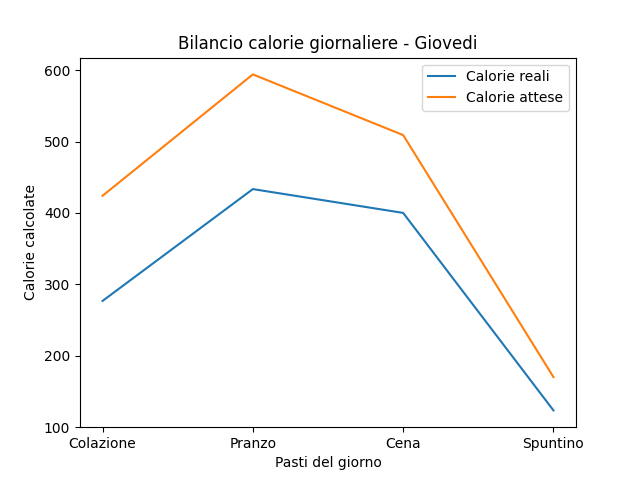
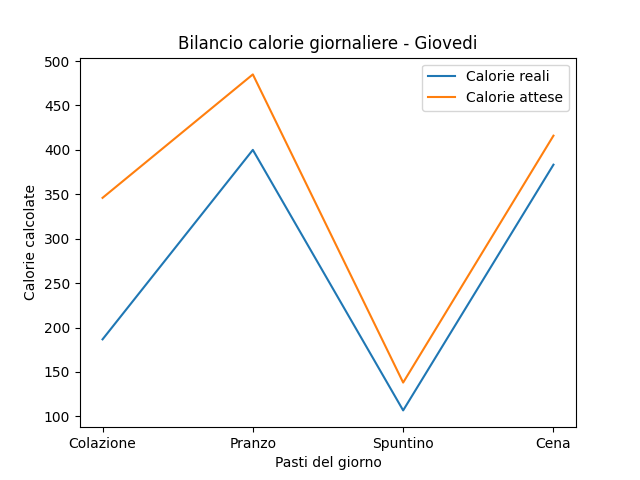
Add files via upload

diff --git a/progetto programmazione/templates/risultato.html b/progetto programmazione/templates/risultato.html
@@ -1,3 +1,4 @@
+<!DOCTYPE html>
 <html lang="en">
 <head>
     <meta charset="UTF-8">
@@ -12,19 +13,15 @@
     <script>
         function toggleProcedimento(id) {
             var procedimentoElement = document.getElementById(id);
-            if (procedimentoElement.style.display === "none") {
-                procedimentoElement.style.display = "block";
-            } else {
-                procedimentoElement.style.display = "none";
+            if (procedimentoElement) {
+                procedimentoElement.style.display = procedimentoElement.style.display === "none" ? "block" : "none";
             }
         }
 
         function toggleBilancio(id) {
             var graficoElement = document.getElementById(id);
-            if (graficoElement.style.display === "none") {
-                graficoElement.style.display = "block";
-            } else {
-                graficoElement.style.display = "none";
+            if (graficoElement) {
+                graficoElement.style.display = graficoElement.style.display === "none" ? "block" : "none";
             }
         }
     </script>
@@ -33,28 +30,33 @@
     <h1>Risultato Calcolo Calorico</h1>
     <p><strong>BMR:</strong> {{ bmr }} kcal</p>
     <p><strong>TDEE:</strong> {{ tdee }} kcal</p>
+    
     <h2>Ripartizione Calorica Giornaliera</h2>
     <ul>
         <li><strong>Colazione:</strong> {{ colazione }} kcal</li>
         <li><strong>Pranzo:</strong> {{ pranzo }} kcal</li>
-        <li><strong>Cena:</strong> {{ cena }} kcal</li>
         <li><strong>Spuntino:</strong> {{ spuntino }} kcal</li>
+        <li><strong>Cena:</strong> {{ cena }} kcal</li>
     </ul>
+    
     <h2>Ripartizione calorica giornaliera</h2>
     <div style="text-align: left;">
-    <img src="{{ url_for('static', filename='grafico_ripartizione.png') }}"
-    style="width: 35%; height: auto; display: inline-block; margin-right: 10px;">
-    <img src="{{ url_for('static', filename='grafico_ripartizione_barre.png') }}" 
-    style="width: 35%; height: auto; display: inline-block;">
-    
+        <img src="{{ url_for('static', filename='grafico_ripartizione.png') }}"
+             style="width: 35%; height: auto; display: inline-block; margin-right: 10px;" alt="Grafico Ripartizione">
+        <img src="{{ url_for('static', filename='grafico_ripartizione_barre.png') }}" 
+             style="width: 35%; height: auto; display: inline-block;" alt="Grafico Ripartizione Barre">
+    </div>
+
     <h2>Menu Settimanale</h2>
     {% for giorno, pasti in menu_settimanale.items() %}
         <h3>{{ giorno }}</h3>
         <button onclick="toggleBilancio('grafico-bilancio-{{ giorno }}')">BILANCIO</button>
         <div id="grafico-bilancio-{{ giorno }}" class="grafico-bilancio">
             <img src="{{ url_for('static', filename='grafico_' + giorno + '.png') }}" alt="Grafico Bilancio {{ giorno }}"
-            style="width: 20%; height: auto; display: inline-block; margin-right: 10px;">
+                 style="width: 20%; height: auto; display: inline-block; margin-right: 10px;">
         </div>
+
+        <!-- Colazione -->
         <h4>Colazione</h4>
         <ul>
             {% for ricetta in pasti['Colazione'] %}
@@ -67,7 +69,8 @@
                 </li>
             {% endfor %}
         </ul>
-        
+
+        <!-- Pranzo -->
         <h4>Pranzo</h4>
         <ul>
             {% for ricetta in pasti['Pranzo'] %}
@@ -80,6 +83,8 @@
                 </li>
             {% endfor %}
         </ul>
+
+        <!-- Spuntino -->
         <h4>Spuntino</h4>
         <ul>
             {% for ricetta in pasti['Spuntino'] %}
@@ -90,6 +95,10 @@
                         <p>{{ ricetta['Descrizione'] }}</p>
                     </div>
                 </li>
+            {% endfor %}
+        </ul>
+
+        <!-- Cena -->
         <h4>Cena</h4>
         <ul>
             {% for ricetta in pasti['Cena'] %}
@@ -102,12 +111,8 @@
                 </li>
             {% endfor %}
         </ul>
-        
-            {% endfor %}
-        </ul>
     {% endfor %}
-    
+
     <a href="/">Torna indietro</a>
 </body>
 </html>
-

diff --git a/progetto programmazione/app.py b/progetto programmazione/app.py
@@ -22,7 +22,7 @@ def calcola():
         tdee = calcola_tdee(bmr, livello_attività)
         colazione, pranzo, cena, spuntino = ripartizione_calorica(tdee)
 
-        # Creazione del grafico a torta
+        # Creazione del grafico a torta e barre
         crea_grafico_ripartizione(colazione, pranzo, cena, spuntino, 'static/grafico_ripartizione.png')
         crea_grafico_ripartizione_barre(colazione, pranzo, cena, spuntino, 'static/grafico_ripartizione_barre.png')
 
@@ -54,21 +54,19 @@ def calcola():
                 else:
                     media_kcal[giorno][pasto] = None
 
+        # Ordinamento degli pasti
+        ordine_pasti = ["Colazione", "Pranzo", "Spuntino", "Cena"]
+
         # Creazione dei grafici
         giorni = list(media_kcal.keys())
-        dati = [colazione, pranzo, cena, spuntino]
-        pasti = ["Colazione", "Pranzo", "Cena", "Spuntino"]
 
         for giorno in giorni:
-            pasti_giornalieri = list(media_kcal[giorno].keys())
-            medie_pasti = []
-            for pasto in pasti_giornalieri:
-                if media_kcal[giorno][pasto] is not None:
-                    medie_pasti.append(media_kcal[giorno][pasto])
+            pasti_giornalieri = [pasto for pasto in ordine_pasti if pasto in media_kcal[giorno]]
+            medie_pasti = [media_kcal[giorno].get(pasto, None) for pasto in ordine_pasti]
 
             fig, ax = plt.subplots()
             ax.plot(pasti_giornalieri, medie_pasti, label="Calorie reali")
-            ax.plot(pasti, dati, label="Calorie attese")
+            ax.plot(ordine_pasti, [colazione, pranzo, spuntino, cena], label="Calorie attese")
             ax.legend()
             ax.set_title(f"Bilancio calorie giornaliere - {giorno}")
             ax.set_xlabel("Pasti del giorno")
